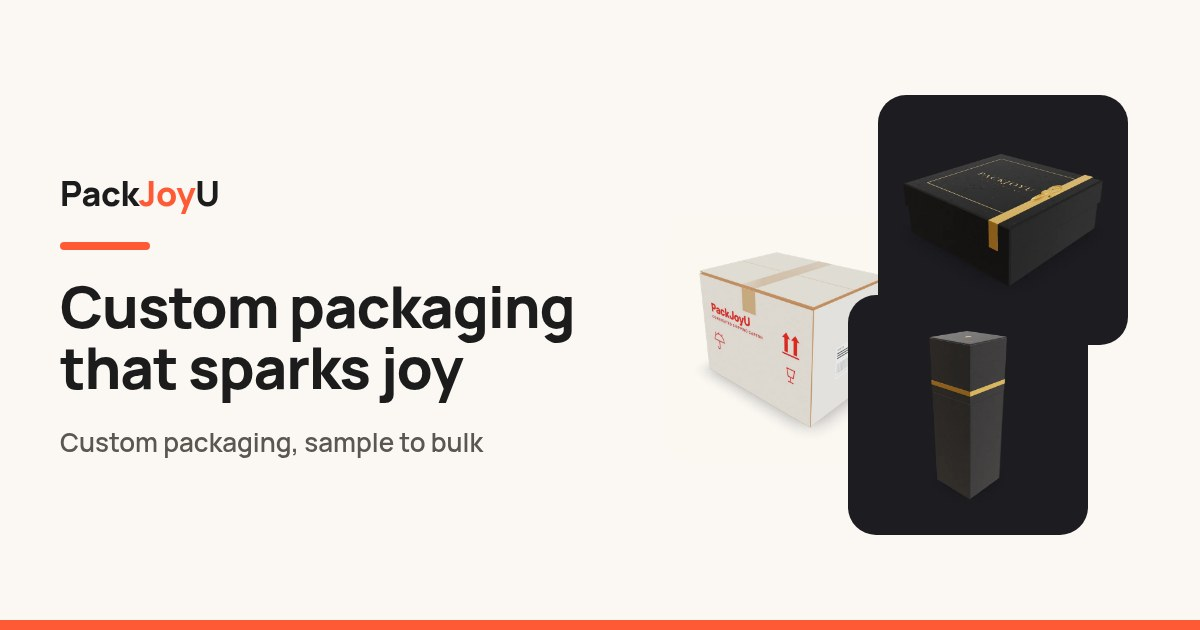
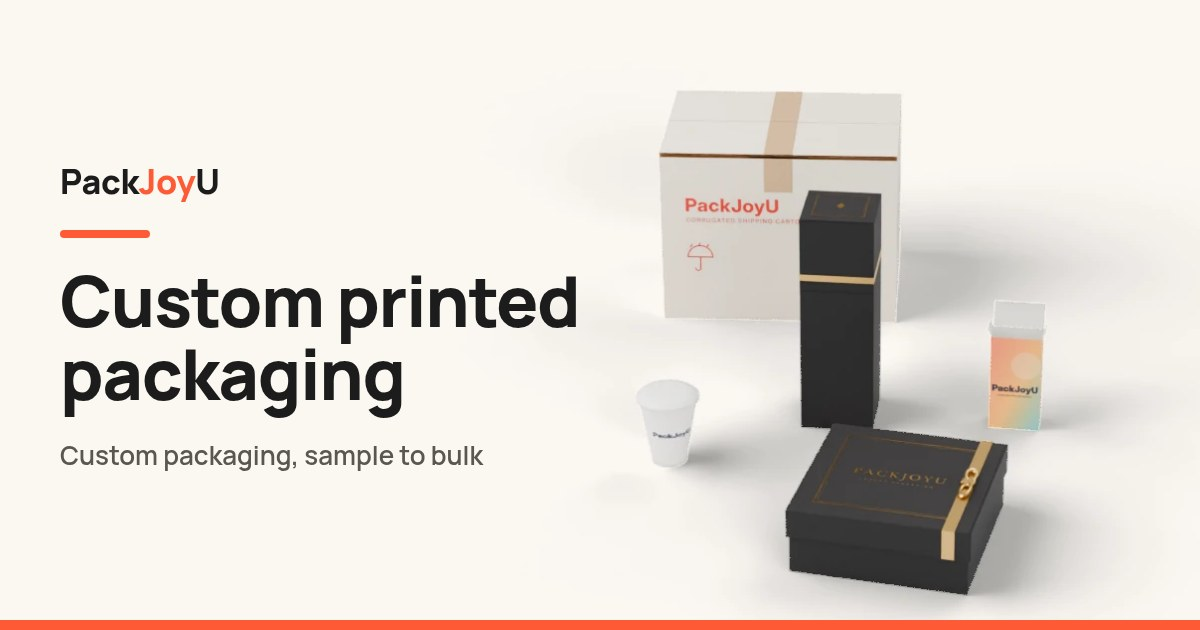
fix(og): regenerate home OG from text-free hero poster (#305); ?v= cache busting; og:image for products/[slug]
- render-og.mjs: home uses hero-115-poster (path read from HeroVideo.tsx) full-bleed,
  brand text drawn in (PackJoyU wordmark + overlay copy EN/RU); --only=home renders a subset
- only home-en/home-ru.jpg regenerated; product/category OG images unchanged (wait for #291 framing)
- og-versions.mjs -> src/data/og-versions.json; ogImageUrl() appends ?v=<sha256-8>
- products/[slug] og:image + twitter summary_large_image via categoryOg.ts
- render-og-categories expects 11 categories (#296)
Refs #291

diff --git a/src/lib/seo/pageMeta.ts b/src/lib/seo/pageMeta.ts
@@ -2,6 +2,7 @@ import type { Metadata } from 'next';
 import { getTranslations } from 'next-intl/server';
 import { alternatesFor } from '@/i18n/alternates';
 import { SITE_URL } from '@/lib/site';
+import ogVersions from '@/data/og-versions.json';
 
 // 每页统一的 SEO 头：canonical/hreflang、og:url（= canonical）、og/twitter 的标题和描述、分享图。
 // 分享图规格：1200×630 JPG，public/og/<ogSlug>-<locale>.jpg（#208）；alt 用该页命名空间的 ogImageAlt，没有时用 Meta.ogImageAlt。
@@ -9,13 +10,24 @@ import { SITE_URL } from '@/lib/site';
 export const OG_WIDTH = 1200;
 export const OG_HEIGHT = 630;
 
+// 换图后社交平台（Telegram/VK/Facebook）按 URL 缓存，所以 URL 带 ?v=<sha256 前 8 位>。
+// 版本表 src/data/og-versions.json 由 design/og-src/render-og*.mjs 生成（og-versions.mjs）；测试校验它和文件内容一致。
+const OG_VERSIONS: Record<string, string> = ogVersions;
+export function ogImageUrl(ogSlug: string, locale: string): string {
+  const file = `${ogSlug}-${locale}.jpg`;
+  const v = OG_VERSIONS[file];
+  const url = new URL(`/og/${file}`, SITE_URL);
+  if (v) url.searchParams.set('v', v);
+  return url.toString();
+}
+
 type Opts = { locale: string; path: string; title: string; description: string; ogSlug?: string; ogAlt?: string; robots?: Metadata['robots'] };
 
 export async function pageMetadata({ locale, path, title, description, ogSlug = 'home', ogAlt, robots }: Opts): Promise<Metadata> {
   const t = await getTranslations({ locale, namespace: 'Meta' });
   const alternates = alternatesFor(locale, path);
   const url = new URL(alternates.canonical, SITE_URL).toString();
-  const image = { url: new URL(`/og/${ogSlug}-${locale}.jpg`, SITE_URL).toString(), width: OG_WIDTH, height: OG_HEIGHT, alt: ogAlt ?? t('ogImageAlt') };
+  const image = { url: ogImageUrl(ogSlug, locale), width: OG_WIDTH, height: OG_HEIGHT, alt: ogAlt ?? t('ogImageAlt') };
   return {
     metadataBase: new URL(SITE_URL),
     title: { absolute: title },

diff --git a/tests/category-og.test.ts b/tests/category-og.test.ts
@@ -1,0 +1,39 @@
+import test from 'node:test';
+import assert from 'node:assert/strict';
+import fs from 'node:fs';
+import path from 'node:path';
+import crypto from 'node:crypto';
+import { categoryMeta } from '../src/lib/seo/categoryMeta';
+import { categoryOgImage } from '../src/lib/seo/categoryOg';
+
+const OG = path.join(process.cwd(), 'public/og');
+const sha8 = (f: string) => crypto.createHash('sha256').update(fs.readFileSync(path.join(OG, f))).digest('hex').slice(0, 8);
+
+test('11 个品类 × EN/RU：og:image 文件存在，?v= = 文件哈希，alt、尺寸正确', () => {
+  assert.equal(categoryMeta.length, 11);
+  let n = 0;
+  for (const c of categoryMeta) for (const l of ['en', 'ru'] as const) {
+    const img = categoryOgImage(l, c[l].slug);
+    assert.ok(img, `${l}/${c[l].slug}`);
+    const file = `category-${c[l].slug}-${l}.jpg`;
+    assert.ok(fs.existsSync(path.join(OG, file)), file);
+    const u = new URL(img.url);
+    assert.equal(u.pathname, `/og/${file}`);
+    assert.equal(u.searchParams.get('v'), sha8(file));
+    assert.equal(img.width, 1200);
+    assert.equal(img.height, 630);
+    assert.equal(img.alt, `${c[l].keyword} | PackJoyU`);
+    n++;
+  }
+  assert.equal(n, 22);
+});
+
+test('EN slug 在 RU 下查不到（反之亦然）', () => {
+  assert.equal(categoryOgImage('ru', 'custom-gift-boxes'), undefined);
+  assert.equal(categoryOgImage('en', 'podarochnye-korobki'), undefined);
+});
+
+test('原型链/路径/未知 slug 不输出 og:image', () => {
+  for (const s of ['constructor', '__proto__', 'toString', 'hasOwnProperty', 'length', '../x', '..%2Fx', 'unknown', ''])
+    for (const l of ['en', 'ru'] as const) assert.equal(categoryOgImage(l, s), undefined, `${l}/${s}`);
+});

diff --git a/tests/og-versions.test.ts b/tests/og-versions.test.ts
@@ -1,0 +1,31 @@
+import test from 'node:test';
+import assert from 'node:assert/strict';
+import fs from 'node:fs';
+import path from 'node:path';
+import crypto from 'node:crypto';
+import ogVersions from '../src/data/og-versions.json';
+import { ogImageUrl } from '../src/lib/seo/pageMeta';
+
+const OG = path.join(process.cwd(), 'public/og');
+const files = fs.readdirSync(OG).filter((f) => f.endsWith('.jpg')).sort();
+const sha8 = (f: string) => crypto.createHash('sha256').update(fs.readFileSync(path.join(OG, f))).digest('hex').slice(0, 8);
+const versions = ogVersions as Record<string, string>;
+
+test('og-versions.json 覆盖 public/og 的每张图，且 v = 文件 sha256 前 8 位（换图后要重跑 design/og-src/og-versions.mjs）', () => {
+  assert.deepEqual(Object.keys(versions).sort(), files);
+  for (const f of files) assert.equal(versions[f], sha8(f), f);
+});
+
+test('og:image URL 都带 ?v=，且与文件内容哈希一致', () => {
+  const slugs = ['home', 'products', 'contact', 'privacy'];
+  for (const s of slugs) for (const l of ['en', 'ru']) {
+    const u = new URL(ogImageUrl(s, l));
+    assert.equal(u.pathname, `/og/${s}-${l}.jpg`);
+    assert.match(u.searchParams.get('v') ?? '', /^[0-9a-f]{8}$/);
+    assert.equal(u.searchParams.get('v'), sha8(`${s}-${l}.jpg`));
+  }
+});
+
+test('没有 eco-paper-cups 分享图（#296）', () => {
+  assert.deepEqual(files.filter((f) => /eco/i.test(f)), []);
+});

diff --git a/src/app/[locale]/products/[slug]/page.tsx b/src/app/[locale]/products/[slug]/page.tsx
@@ -6,6 +6,7 @@ import JsonLd from '@/components/seo/JsonLd';
 import { categoryMeta } from '@/lib/seo/categoryMeta';
 import { categoryHref, categoryPagePath } from '@/lib/seo/categoryPages';
 import { categoryPagesLive } from '@/lib/seo/mock';
+import { categoryOgImage } from '@/lib/seo/categoryOg';
 import { categorySeo } from '@/lib/seo/templates';
 import { categoryBreadcrumb } from '@/lib/seo/breadcrumbs';
 import { routing } from '@/i18n/routing';
@@ -28,7 +29,9 @@ export async function generateMetadata({ params }: P): Promise<Metadata> {
   const { title, description } = categorySeo({ locale, name: names(c.key), meta: c[locale] });
   const languages: Record<string, string> = Object.fromEntries(routing.locales.map((l) => [l, categoryPagePath(l, c.key, true)!]));
   languages['x-default'] = categoryPagePath(routing.defaultLocale, c.key, true)!;
-  return { title, ...(description ? { description } : {}), alternates: { canonical: categoryPagePath(locale, c.key, true)!, languages } };
+  const image = categoryOgImage(locale, c[locale].slug);
+  const share = image ? { openGraph: { images: [image] }, twitter: { card: 'summary_large_image' as const, images: [image] } } : {};
+  return { title, ...(description ? { description } : {}), alternates: { canonical: categoryPagePath(locale, c.key, true)!, languages }, ...share };
 }
 
 export default async function CategoryPage({ params }: P) {

diff --git a/src/lib/seo/categoryOg.ts b/src/lib/seo/categoryOg.ts
@@ -1,0 +1,14 @@
+import { categoryMeta } from '@/lib/seo/categoryMeta';
+import { ogImageUrl, OG_WIDTH, OG_HEIGHT } from '@/lib/seo/pageMeta';
+
+// 品类落地页分享图：public/og/category-<该语言 slug>-<locale>.jpg（render-og-categories.mjs 生成）。
+// categoryMeta 是数组，按 [locale].slug 严格相等查找，不走对象属性/原型链（constructor、__proto__ 等查不到）；
+// 文件名只用查到的条目里的 slug，绝不拼 URL 参数。查不到返回 undefined（不输出 og:image）。
+export type CategoryOgImage = { url: string; width: number; height: number; alt: string };
+
+export function categoryOgImage(locale: 'en' | 'ru', slug: string): CategoryOgImage | undefined {
+  const c = categoryMeta.find((m) => m[locale].slug === slug);
+  if (!c) return undefined;
+  const meta = c[locale];
+  return { url: ogImageUrl(`category-${meta.slug}`, locale), width: OG_WIDTH, height: OG_HEIGHT, alt: `${meta.keyword} | PackJoyU` };
+}
